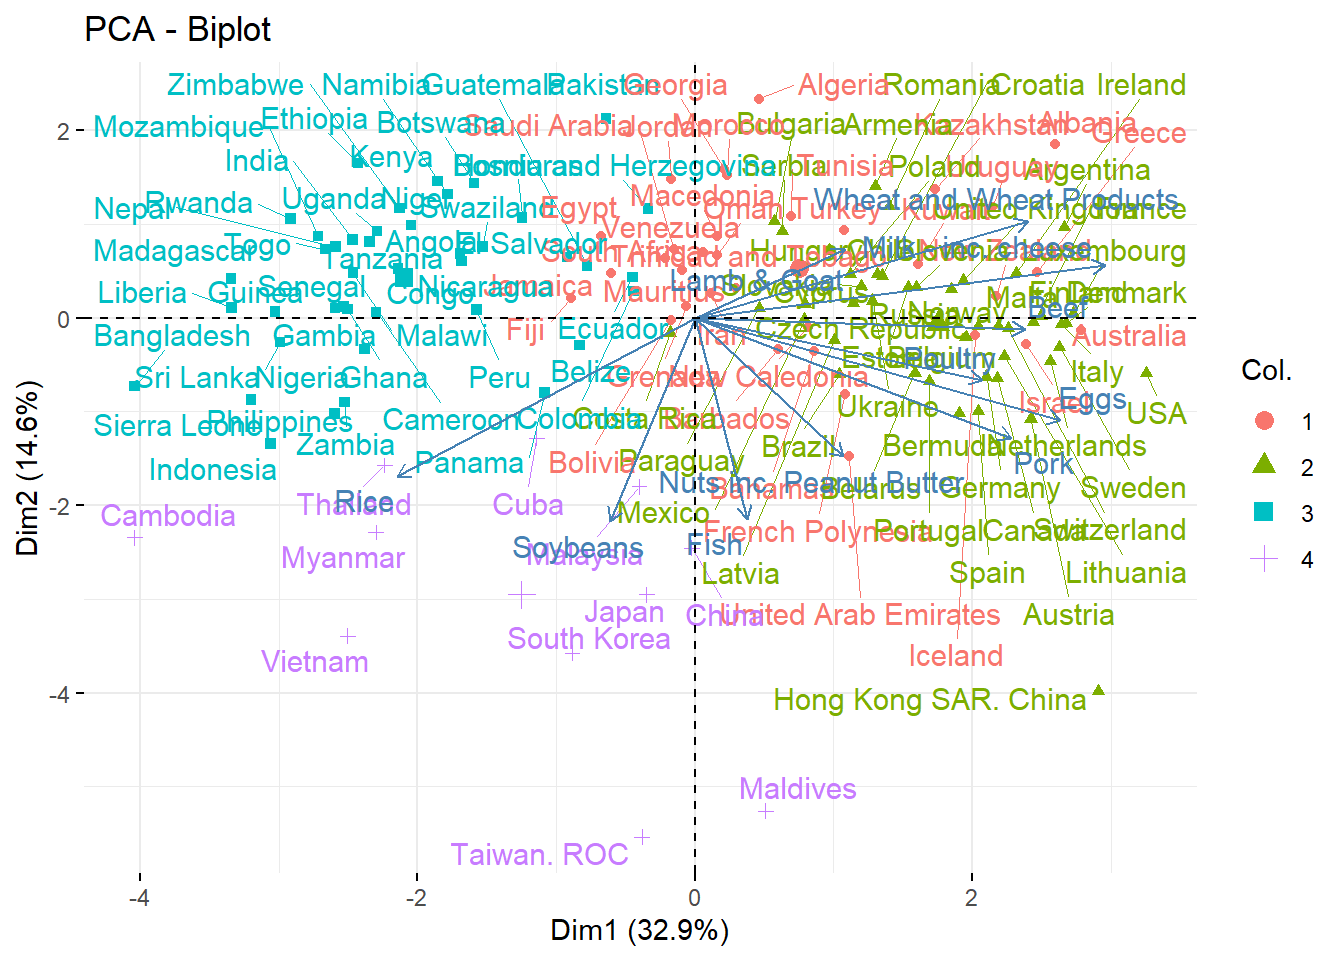
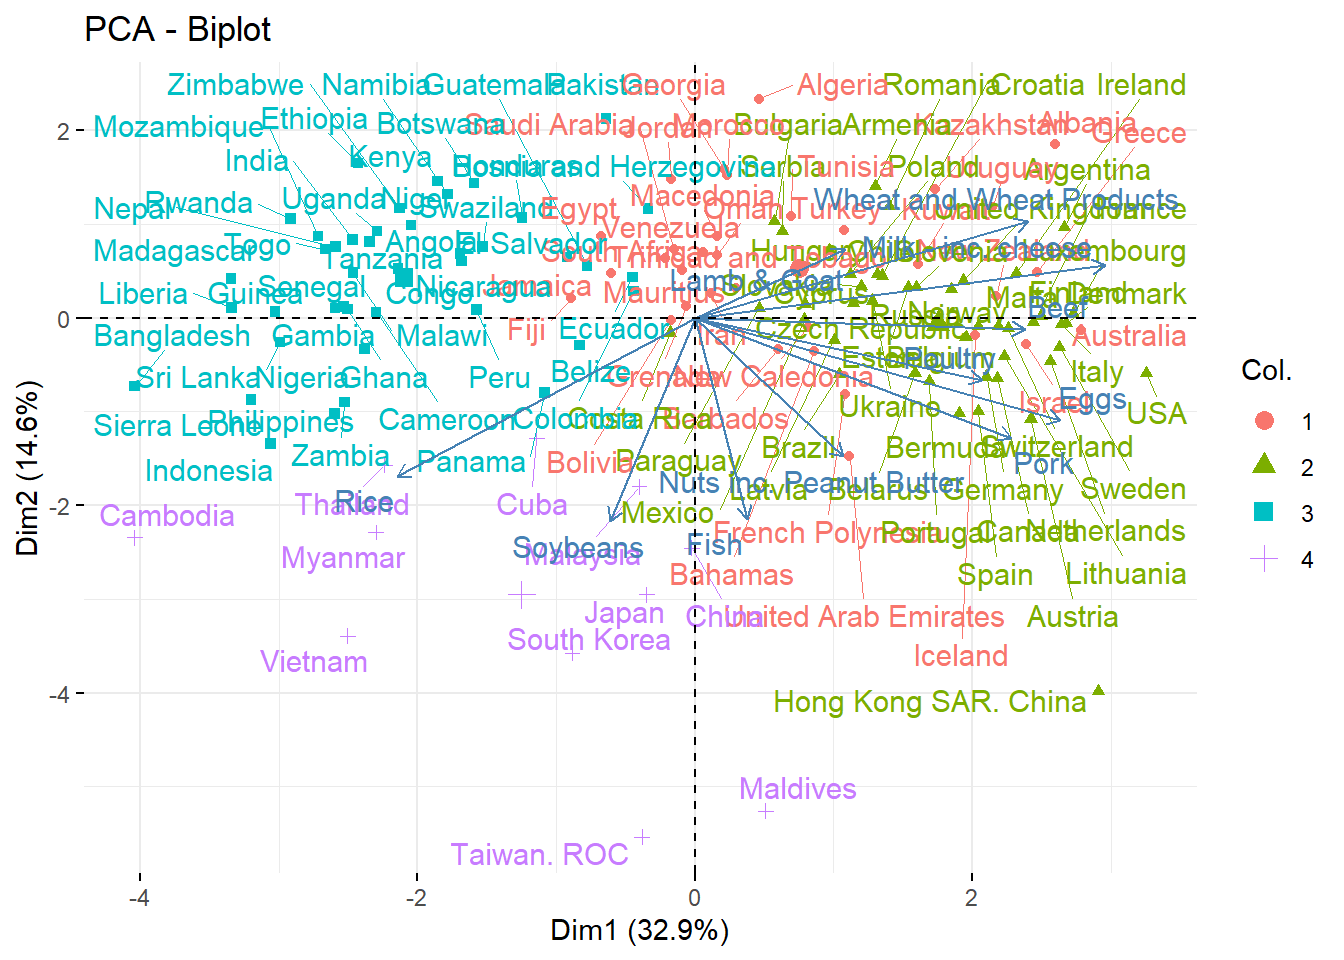
Commit 21 Nov 26 III

diff --git a/docs/block-II-unit-2.html b/docs/block-II-unit-2.html
@@ -1843,6 +1843,182 @@ Cumulative Proportion  0.328540 0.474400 0.597350 0.6850000</code></pre>
 </div>
 </div>
 <p>We can see from the plot that the Beef, Lamb and Goat contributes high proportion of CO2 emmission. Argentina tops the CO2 emissions. India is at the 11th position due to the major consumption of rice, milk, etc.</p>
+<div class="cell">
+<div class="code-copy-outer-scaffold"><div class="sourceCode cell-code" id="cb149"><pre class="sourceCode r code-with-copy"><code class="sourceCode r"><span id="cb149-1"><a href="#cb149-1" aria-hidden="true" tabindex="-1"></a><span class="co"># install.packages(c('tidyverse', 'factoextra', 'e1071', 'ggrepel'))</span></span>
+<span id="cb149-2"><a href="#cb149-2" aria-hidden="true" tabindex="-1"></a><span class="fu">library</span>(tidyverse)</span>
+<span id="cb149-3"><a href="#cb149-3" aria-hidden="true" tabindex="-1"></a><span class="fu">library</span>(factoextra)</span>
+<span id="cb149-4"><a href="#cb149-4" aria-hidden="true" tabindex="-1"></a><span class="fu">library</span>(e1071)</span></code></pre></div><button title="Copy to Clipboard" class="code-copy-button"><i class="bi"></i></button></div>
+<div class="cell-output cell-output-stderr">
+<pre><code>Warning: package 'e1071' was built under R version 4.4.2</code></pre>
+</div>
+<div class="cell-output cell-output-stderr">
+<pre><code>
+Attaching package: 'e1071'</code></pre>
+</div>
+<div class="cell-output cell-output-stderr">
+<pre><code>The following object is masked from 'package:tune':
+
+    tune</code></pre>
+</div>
+<div class="cell-output cell-output-stderr">
+<pre><code>The following object is masked from 'package:rsample':
+
+    permutations</code></pre>
+</div>
+<div class="cell-output cell-output-stderr">
+<pre><code>The following object is masked from 'package:parsnip':
+
+    tune</code></pre>
+</div>
+<div class="code-copy-outer-scaffold"><div class="sourceCode cell-code" id="cb155"><pre class="sourceCode r code-with-copy"><code class="sourceCode r"><span id="cb155-1"><a href="#cb155-1" aria-hidden="true" tabindex="-1"></a><span class="fu">library</span>(ggrepel)</span></code></pre></div><button title="Copy to Clipboard" class="code-copy-button"><i class="bi"></i></button></div>
+<div class="cell-output cell-output-stderr">
+<pre><code>Warning: package 'ggrepel' was built under R version 4.4.2</code></pre>
+</div>
+<div class="code-copy-outer-scaffold"><div class="sourceCode cell-code" id="cb157"><pre class="sourceCode r code-with-copy"><code class="sourceCode r"><span id="cb157-1"><a href="#cb157-1" aria-hidden="true" tabindex="-1"></a><span class="fu">options</span>(<span class="at">timeout =</span> <span class="dv">600</span>)</span>
+<span id="cb157-2"><a href="#cb157-2" aria-hidden="true" tabindex="-1"></a><span class="fu">set.seed</span>(<span class="dv">2026</span>)</span>
+<span id="cb157-3"><a href="#cb157-3" aria-hidden="true" tabindex="-1"></a></span>
+<span id="cb157-4"><a href="#cb157-4" aria-hidden="true" tabindex="-1"></a></span>
+<span id="cb157-5"><a href="#cb157-5" aria-hidden="true" tabindex="-1"></a><span class="co"># ---------- 2. Fuzzy c-means ----------</span></span>
+<span id="cb157-6"><a href="#cb157-6" aria-hidden="true" tabindex="-1"></a>cm <span class="ot">&lt;-</span> <span class="fu">cmeans</span>(M, <span class="at">centers =</span> <span class="dv">4</span>, <span class="at">m =</span> <span class="dv">2</span>, <span class="at">iter.max =</span> <span class="dv">100</span>)</span>
+<span id="cb157-7"><a href="#cb157-7" aria-hidden="true" tabindex="-1"></a></span>
+<span id="cb157-8"><a href="#cb157-8" aria-hidden="true" tabindex="-1"></a>U <span class="ot">&lt;-</span> cm<span class="sc">$</span>membership</span>
+<span id="cb157-9"><a href="#cb157-9" aria-hidden="true" tabindex="-1"></a><span class="fu">rownames</span>(U) <span class="ot">&lt;-</span> <span class="fu">rownames</span>(M)               <span class="co"># make sure country names are attached</span></span>
+<span id="cb157-10"><a href="#cb157-10" aria-hidden="true" tabindex="-1"></a>maxU <span class="ot">&lt;-</span> <span class="fu">apply</span>(U, <span class="dv">1</span>, max)</span>
+<span id="cb157-11"><a href="#cb157-11" aria-hidden="true" tabindex="-1"></a></span>
+<span id="cb157-12"><a href="#cb157-12" aria-hidden="true" tabindex="-1"></a><span class="fu">length</span>(cm<span class="sc">$</span>cluster)                       <span class="co"># must be 130</span></span></code></pre></div><button title="Copy to Clipboard" class="code-copy-button"><i class="bi"></i></button></div>
+<div class="cell-output cell-output-stdout">
+<pre><code>[1] 130</code></pre>
+</div>
+<div class="code-copy-outer-scaffold"><div class="sourceCode cell-code" id="cb159"><pre class="sourceCode r code-with-copy"><code class="sourceCode r"><span id="cb159-1"><a href="#cb159-1" aria-hidden="true" tabindex="-1"></a><span class="fu">head</span>(<span class="fu">round</span>(U, <span class="dv">2</span>))</span></code></pre></div><button title="Copy to Clipboard" class="code-copy-button"><i class="bi"></i></button></div>
+<div class="cell-output cell-output-stdout">
+<pre><code>               1    2    3    4
+Argentina   0.15 0.30 0.27 0.27
+Australia   0.12 0.34 0.27 0.27
+Albania     0.15 0.31 0.27 0.27
+Iceland     0.19 0.27 0.27 0.27
+New Zealand 0.17 0.28 0.28 0.28
+USA         0.10 0.39 0.25 0.25</code></pre>
+</div>
+</div>
+<div class="cell">
+<div class="code-copy-outer-scaffold"><div class="sourceCode cell-code" id="cb161"><pre class="sourceCode r code-with-copy"><code class="sourceCode r"><span id="cb161-1"><a href="#cb161-1" aria-hidden="true" tabindex="-1"></a><span class="co"># Plot 1: countries on the PCA map, faded = borderline diets</span></span>
+<span id="cb161-2"><a href="#cb161-2" aria-hidden="true" tabindex="-1"></a></span>
+<span id="cb161-3"><a href="#cb161-3" aria-hidden="true" tabindex="-1"></a>pc <span class="ot">&lt;-</span> <span class="fu">as_tibble</span>(pca<span class="sc">$</span>x[, <span class="dv">1</span><span class="sc">:</span><span class="dv">2</span>]) <span class="sc">|&gt;</span></span>
+<span id="cb161-4"><a href="#cb161-4" aria-hidden="true" tabindex="-1"></a>  <span class="fu">mutate</span>(<span class="at">country   =</span> <span class="fu">rownames</span>(M),</span>
+<span id="cb161-5"><a href="#cb161-5" aria-hidden="true" tabindex="-1"></a>         <span class="at">cluster   =</span> <span class="fu">factor</span>(cm<span class="sc">$</span>cluster),</span>
+<span id="cb161-6"><a href="#cb161-6" aria-hidden="true" tabindex="-1"></a>         <span class="at">certainty =</span> maxU)</span>
+<span id="cb161-7"><a href="#cb161-7" aria-hidden="true" tabindex="-1"></a></span>
+<span id="cb161-8"><a href="#cb161-8" aria-hidden="true" tabindex="-1"></a><span class="fu">ggplot</span>(pc, <span class="fu">aes</span>(PC1, PC2, <span class="at">colour =</span> cluster, <span class="at">alpha =</span> certainty)) <span class="sc">+</span></span>
+<span id="cb161-9"><a href="#cb161-9" aria-hidden="true" tabindex="-1"></a>  <span class="fu">geom_point</span>(<span class="at">size =</span> <span class="dv">3</span>) <span class="sc">+</span></span>
+<span id="cb161-10"><a href="#cb161-10" aria-hidden="true" tabindex="-1"></a>  <span class="fu">geom_text_repel</span>(<span class="at">data =</span> <span class="fu">filter</span>(pc, certainty <span class="sc">&lt;</span> <span class="fl">0.6</span>), <span class="fu">aes</span>(<span class="at">label =</span> country),</span>
+<span id="cb161-11"><a href="#cb161-11" aria-hidden="true" tabindex="-1"></a>                  <span class="at">size =</span> <span class="dv">3</span>, <span class="at">show.legend =</span> <span class="cn">FALSE</span>) <span class="sc">+</span></span>
+<span id="cb161-12"><a href="#cb161-12" aria-hidden="true" tabindex="-1"></a>  <span class="fu">labs</span>(<span class="at">title =</span> <span class="st">'Fuzzy c-means: faded points are borderline diets'</span>,</span>
+<span id="cb161-13"><a href="#cb161-13" aria-hidden="true" tabindex="-1"></a>       <span class="at">alpha =</span> <span class="st">'Max membership'</span>) <span class="sc">+</span></span>
+<span id="cb161-14"><a href="#cb161-14" aria-hidden="true" tabindex="-1"></a>  <span class="fu">theme_minimal</span>(<span class="at">base_size =</span> <span class="dv">13</span>)</span></code></pre></div><button title="Copy to Clipboard" class="code-copy-button"><i class="bi"></i></button></div>
+<div class="cell-output cell-output-stderr">
+<pre><code>Warning: ggrepel: 60 unlabeled data points (too many overlaps). Consider
+increasing max.overlaps</code></pre>
+</div>
+<div class="cell-output-display">
+<div>
+<figure class="figure">
+<p><img src="block-II-unit-2_files/figure-html/unnamed-chunk-43-1.png" class="img-fluid figure-img" width="672"></p>
+</figure>
+</div>
+</div>
+</div>
+<div class="cell">
+<div class="code-copy-outer-scaffold"><div class="sourceCode cell-code" id="cb163"><pre class="sourceCode r code-with-copy"><code class="sourceCode r"><span id="cb163-1"><a href="#cb163-1" aria-hidden="true" tabindex="-1"></a><span class="co"># Plot 2: how borderline countries split their membership</span></span>
+<span id="cb163-2"><a href="#cb163-2" aria-hidden="true" tabindex="-1"></a>border <span class="ot">&lt;-</span> <span class="fu">names</span>(maxU[maxU <span class="sc">&lt;</span> <span class="fl">0.6</span>])</span>
+<span id="cb163-3"><a href="#cb163-3" aria-hidden="true" tabindex="-1"></a><span class="fu">length</span>(border)                           <span class="co"># if 0, raise the threshold to 0.7</span></span></code></pre></div><button title="Copy to Clipboard" class="code-copy-button"><i class="bi"></i></button></div>
+<div class="cell-output cell-output-stdout">
+<pre><code>[1] 110</code></pre>
+</div>
+<div class="code-copy-outer-scaffold"><div class="sourceCode cell-code" id="cb165"><pre class="sourceCode r code-with-copy"><code class="sourceCode r"><span id="cb165-1"><a href="#cb165-1" aria-hidden="true" tabindex="-1"></a><span class="cf">if</span> (<span class="fu">length</span>(border) <span class="sc">&gt;</span> <span class="dv">0</span>) {</span>
+<span id="cb165-2"><a href="#cb165-2" aria-hidden="true" tabindex="-1"></a>  U[border, , drop <span class="ot">=</span> <span class="cn">FALSE</span>] <span class="sc">|&gt;</span></span>
+<span id="cb165-3"><a href="#cb165-3" aria-hidden="true" tabindex="-1"></a>    <span class="fu">as.data.frame</span>() <span class="sc">|&gt;</span></span>
+<span id="cb165-4"><a href="#cb165-4" aria-hidden="true" tabindex="-1"></a>    <span class="fu">rownames_to_column</span>(<span class="st">'country'</span>) <span class="sc">|&gt;</span></span>
+<span id="cb165-5"><a href="#cb165-5" aria-hidden="true" tabindex="-1"></a>    <span class="fu">pivot_longer</span>(<span class="sc">-</span>country, <span class="at">names_to =</span> <span class="st">'cluster'</span>, <span class="at">values_to =</span> <span class="st">'membership'</span>) <span class="sc">|&gt;</span></span>
+<span id="cb165-6"><a href="#cb165-6" aria-hidden="true" tabindex="-1"></a>    <span class="fu">ggplot</span>(<span class="fu">aes</span>(membership, country, <span class="at">fill =</span> cluster)) <span class="sc">+</span></span>
+<span id="cb165-7"><a href="#cb165-7" aria-hidden="true" tabindex="-1"></a>    <span class="fu">geom_col</span>() <span class="sc">+</span></span>
+<span id="cb165-8"><a href="#cb165-8" aria-hidden="true" tabindex="-1"></a>    <span class="fu">labs</span>(<span class="at">title =</span> <span class="st">'How borderline countries split across clusters'</span>) <span class="sc">+</span></span>
+<span id="cb165-9"><a href="#cb165-9" aria-hidden="true" tabindex="-1"></a>    <span class="fu">theme_minimal</span>(<span class="at">base_size =</span> <span class="dv">13</span>) <span class="sc">+</span></span>
+<span id="cb165-10"><a href="#cb165-10" aria-hidden="true" tabindex="-1"></a>    <span class="fu">theme</span>(<span class="at">axis.text =</span> <span class="fu">element_text</span>(<span class="at">size =</span> <span class="dv">5</span>))</span>
+<span id="cb165-11"><a href="#cb165-11" aria-hidden="true" tabindex="-1"></a>}</span></code></pre></div><button title="Copy to Clipboard" class="code-copy-button"><i class="bi"></i></button></div>
+<div class="cell-output-display">
+<div>
+<figure class="figure">
+<p><img src="block-II-unit-2_files/figure-html/unnamed-chunk-44-1.png" class="img-fluid figure-img" width="672"></p>
+</figure>
+</div>
+</div>
+</div>
+<div class="cell">
+<div class="code-copy-outer-scaffold"><div class="sourceCode cell-code" id="cb166"><pre class="sourceCode r code-with-copy"><code class="sourceCode r"><span id="cb166-1"><a href="#cb166-1" aria-hidden="true" tabindex="-1"></a><span class="co"># ---------- 4. Hierarchical clustering ----------</span></span>
+<span id="cb166-2"><a href="#cb166-2" aria-hidden="true" tabindex="-1"></a>hc <span class="ot">&lt;-</span> <span class="fu">hclust</span>(<span class="fu">dist</span>(M), <span class="at">method =</span> <span class="st">'ward.D2'</span>)</span>
+<span id="cb166-3"><a href="#cb166-3" aria-hidden="true" tabindex="-1"></a></span>
+<span id="cb166-4"><a href="#cb166-4" aria-hidden="true" tabindex="-1"></a><span class="fu">fviz_dend</span>(hc, <span class="at">k =</span> <span class="dv">4</span>, <span class="at">cex =</span> <span class="fl">0.4</span>, <span class="at">k_colors =</span> <span class="st">'jco'</span>, <span class="at">rect =</span> <span class="cn">TRUE</span>,</span>
+<span id="cb166-5"><a href="#cb166-5" aria-hidden="true" tabindex="-1"></a>          <span class="at">main =</span> <span class="st">'Diet patterns: Ward clustering'</span>)</span></code></pre></div><button title="Copy to Clipboard" class="code-copy-button"><i class="bi"></i></button></div>
+<div class="cell-output-display">
+<div>
+<figure class="figure">
+<p><img src="block-II-unit-2_files/figure-html/unnamed-chunk-45-1.png" class="img-fluid figure-img" width="672"></p>
+</figure>
+</div>
+</div>
+</div>
+<div class="cell">
+<div class="code-copy-outer-scaffold"><div class="sourceCode cell-code" id="cb167"><pre class="sourceCode r code-with-copy"><code class="sourceCode r"><span id="cb167-1"><a href="#cb167-1" aria-hidden="true" tabindex="-1"></a><span class="fu">fviz_dend</span>(hc, <span class="at">k =</span> <span class="dv">4</span>, <span class="at">cex =</span> <span class="fl">0.4</span>, <span class="at">type =</span> <span class="st">'circular'</span>, <span class="at">k_colors =</span> <span class="st">'jco'</span>)</span></code></pre></div><button title="Copy to Clipboard" class="code-copy-button"><i class="bi"></i></button></div>
+<div class="cell-output-display">
+<div>
+<figure class="figure">
+<p><img src="block-II-unit-2_files/figure-html/unnamed-chunk-46-1.png" class="img-fluid figure-img" width="672"></p>
+</figure>
+</div>
+</div>
+</div>
+<div class="cell">
+<div class="code-copy-outer-scaffold"><div class="sourceCode cell-code" id="cb168"><pre class="sourceCode r code-with-copy"><code class="sourceCode r"><span id="cb168-1"><a href="#cb168-1" aria-hidden="true" tabindex="-1"></a><span class="fu">heatmap</span>(M, <span class="at">Rowv =</span> <span class="fu">as.dendrogram</span>(hc), <span class="at">Colv =</span> <span class="cn">NA</span>, <span class="at">scale =</span> <span class="st">'none'</span>,</span>
+<span id="cb168-2"><a href="#cb168-2" aria-hidden="true" tabindex="-1"></a>        <span class="at">cexRow =</span> <span class="fl">0.4</span>, <span class="at">margins =</span> <span class="fu">c</span>(<span class="dv">9</span>, <span class="dv">4</span>))</span></code></pre></div><button title="Copy to Clipboard" class="code-copy-button"><i class="bi"></i></button></div>
+<div class="cell-output-display">
+<div>
+<figure class="figure">
+<p><img src="block-II-unit-2_files/figure-html/unnamed-chunk-47-1.png" class="img-fluid figure-img" width="672"></p>
+</figure>
+</div>
+</div>
+</div>
+<div class="cell">
+<div class="code-copy-outer-scaffold"><div class="sourceCode cell-code" id="cb169"><pre class="sourceCode r code-with-copy"><code class="sourceCode r"><span id="cb169-1"><a href="#cb169-1" aria-hidden="true" tabindex="-1"></a>groups <span class="ot">&lt;-</span> <span class="fu">cutree</span>(hc, <span class="at">k =</span> <span class="dv">4</span>)</span>
+<span id="cb169-2"><a href="#cb169-2" aria-hidden="true" tabindex="-1"></a><span class="fu">table</span>(<span class="at">Hierarchical =</span> groups, <span class="at">KMeans =</span> km<span class="sc">$</span>cluster)</span></code></pre></div><button title="Copy to Clipboard" class="code-copy-button"><i class="bi"></i></button></div>
+<div class="cell-output cell-output-stdout">
+<pre><code>            KMeans
+Hierarchical  1  2  3  4
+           1 16 43  0  1
+           2 17  1 10  1
+           3  0  0  2  6
+           4  0  0 30  3</code></pre>
+</div>
+</div>
+<div class="cell">
+<div class="code-copy-outer-scaffold"><div class="sourceCode cell-code" id="cb171"><pre class="sourceCode r code-with-copy"><code class="sourceCode r"><span id="cb171-1"><a href="#cb171-1" aria-hidden="true" tabindex="-1"></a><span class="co"># 2. Membership profile of the borderline countries</span></span>
+<span id="cb171-2"><a href="#cb171-2" aria-hidden="true" tabindex="-1"></a>border <span class="ot">&lt;-</span> <span class="fu">names</span>(maxU[maxU <span class="sc">&lt;</span> <span class="fl">0.6</span>])</span>
+<span id="cb171-3"><a href="#cb171-3" aria-hidden="true" tabindex="-1"></a></span>
+<span id="cb171-4"><a href="#cb171-4" aria-hidden="true" tabindex="-1"></a>cm<span class="sc">$</span>membership[border, , drop <span class="ot">=</span> <span class="cn">FALSE</span>] <span class="sc">|&gt;</span></span>
+<span id="cb171-5"><a href="#cb171-5" aria-hidden="true" tabindex="-1"></a>  <span class="fu">as.data.frame</span>() <span class="sc">|&gt;</span></span>
+<span id="cb171-6"><a href="#cb171-6" aria-hidden="true" tabindex="-1"></a>  <span class="fu">rownames_to_column</span>(<span class="st">'country'</span>) <span class="sc">|&gt;</span></span>
+<span id="cb171-7"><a href="#cb171-7" aria-hidden="true" tabindex="-1"></a>  <span class="fu">pivot_longer</span>(<span class="sc">-</span>country, <span class="at">names_to =</span> <span class="st">'cluster'</span>, <span class="at">values_to =</span> <span class="st">'membership'</span>) <span class="sc">|&gt;</span></span>
+<span id="cb171-8"><a href="#cb171-8" aria-hidden="true" tabindex="-1"></a>  <span class="fu">ggplot</span>(<span class="fu">aes</span>(membership, country, <span class="at">fill =</span> cluster)) <span class="sc">+</span></span>
+<span id="cb171-9"><a href="#cb171-9" aria-hidden="true" tabindex="-1"></a>  <span class="fu">geom_col</span>() <span class="sc">+</span></span>
+<span id="cb171-10"><a href="#cb171-10" aria-hidden="true" tabindex="-1"></a>  <span class="fu">labs</span>(<span class="at">title =</span> <span class="st">'How borderline countries split across clusters'</span>)</span></code></pre></div><button title="Copy to Clipboard" class="code-copy-button"><i class="bi"></i></button></div>
+<div class="cell-output-display">
+<div>
+<figure class="figure">
+<p><img src="block-II-unit-2_files/figure-html/unnamed-chunk-49-1.png" class="img-fluid figure-img" width="672"></p>
+</figure>
+</div>
+</div>
+</div>
 
 
 </section>
